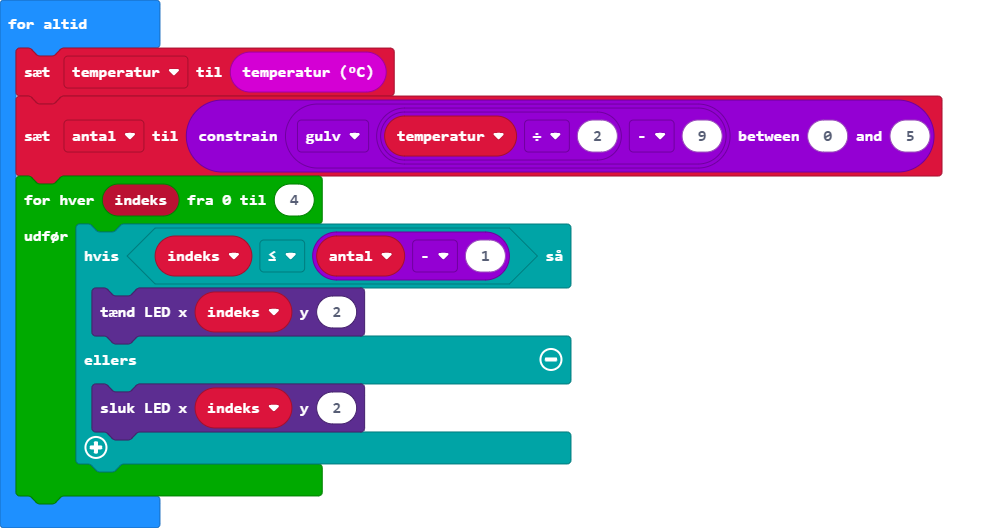
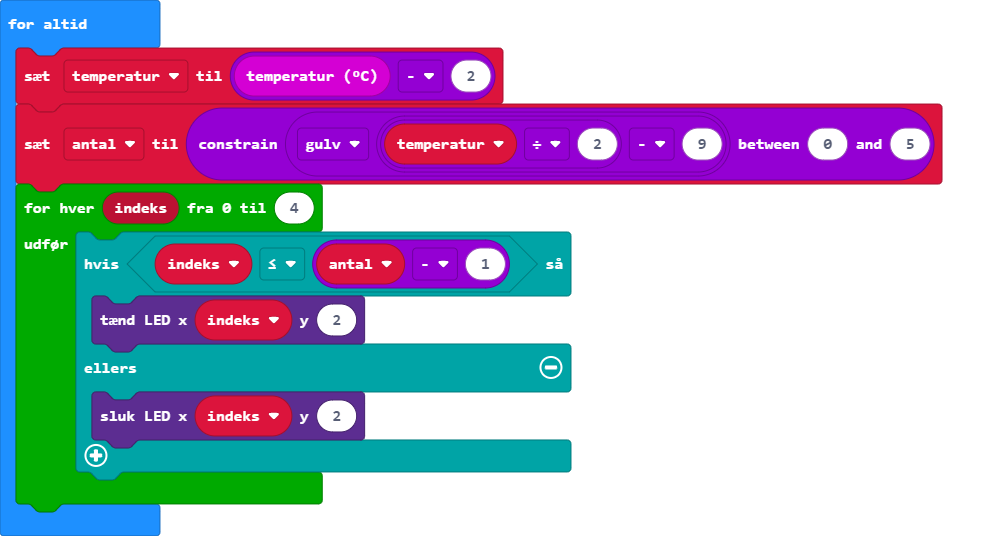
Opdater main.blocks, main.ts

Changed region(s): [[0.0, 0.0303, 0.9668, 0.9091], [0.0312, 0.9394, 0.3119, 0.9697], [0.0624, 0.4848, 0.1247, 0.5152]]

diff --git a/main.ts b/main.ts
@@ -1,7 +1,7 @@
 let temperatur = 0
 let antal = 0
 basic.forever(function () {
-    temperatur = input.temperature()
+    temperatur = input.temperature() - 2
     antal = Math.constrain(Math.floor(temperatur / 2 - 9), 0, 5)
     for (let indeks = 0; indeks <= 4; indeks++) {
         if (indeks <= antal - 1) {
